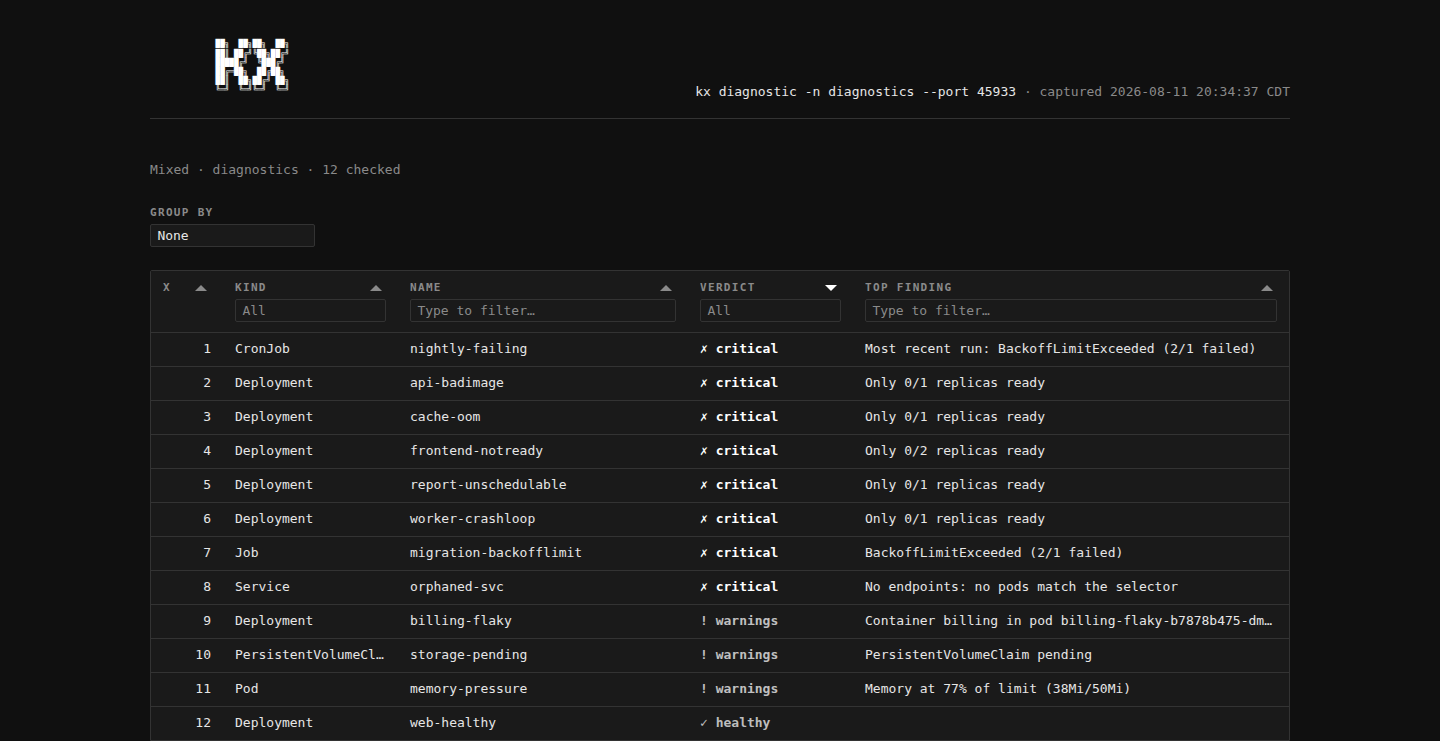
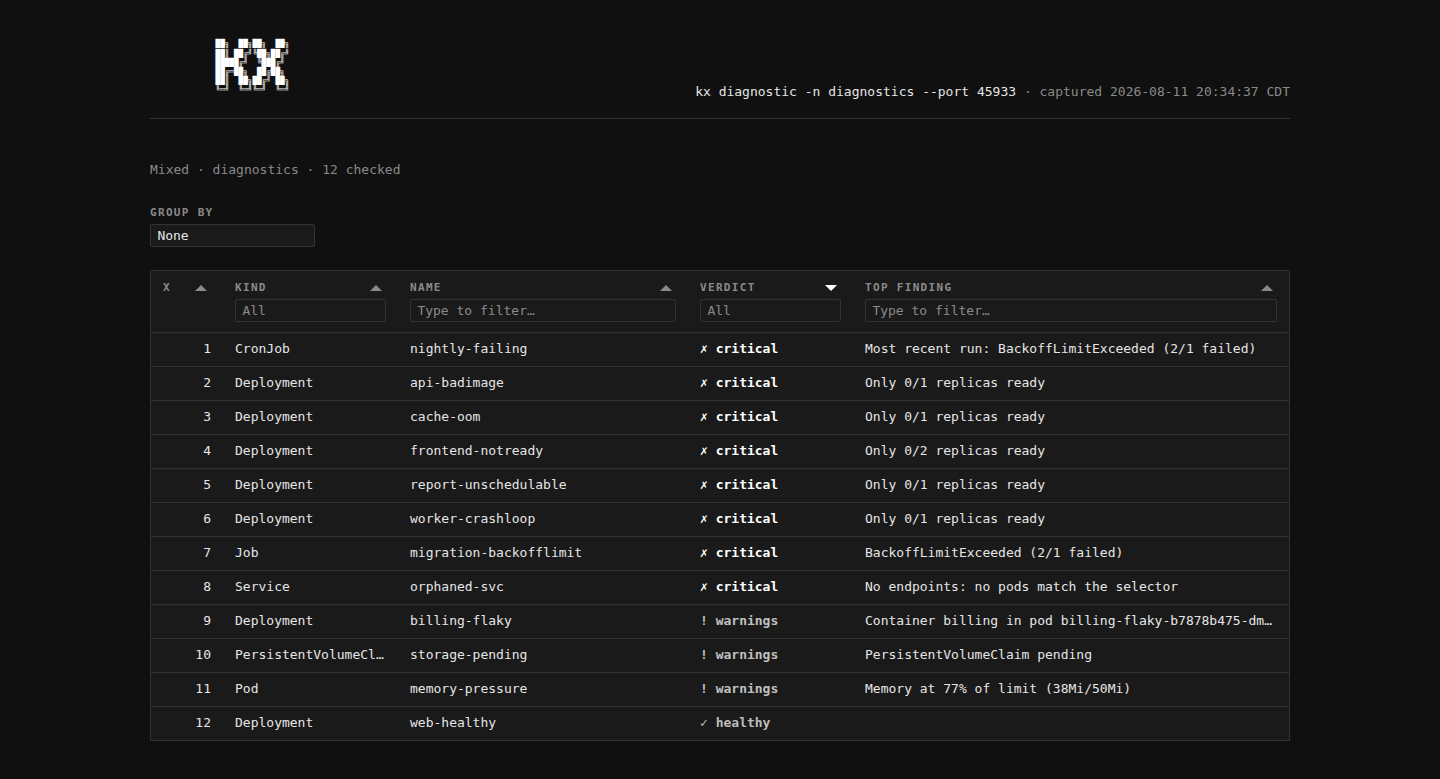
fix(site): match the shots' bottom padding to their top
Clipping to a row boundary left the content flush against the bottom
edge while the top kept the page's own 38px margin, so the shot read as
cropped rather than framed inside its card.

The padding is added after the screenshot rather than by extending the
clip: the rows continue below the cut, so a taller clip shows more grid,
not more space. It is filled with the background sampled from the shot's
own corner, which is the palette's, so it extends the page rather than
matting it in some other colour. The inset is measured per shot instead
of hardcoded, since it is whatever the report's own layout gives it.

--repad applies it to existing shots, so correcting the framing does not
mean re-running thirty screenshots against the cluster. All thirty now
have top and bottom within a pixel of each other.

diff --git a/demo/shoot-reports.py b/demo/shoot-reports.py
@@ -15,7 +15,7 @@ demo/seed.sh), and playwright with chromium. The environment for that is not
 committed — it is a screenshotting tool, not part of building kx:
 
     python3 -m venv /tmp/shotenv
-    /tmp/shotenv/bin/pip install playwright
+    /tmp/shotenv/bin/pip install playwright pillow
     /tmp/shotenv/bin/playwright install chromium
     /tmp/shotenv/bin/python demo/shoot-reports.py
 """
@@ -142,6 +142,40 @@ LAST_ROW_BOTTOM = """
 ROW_MARGIN = 10
 
 
+def pad_bottom(destination: Path) -> None:
+    """Give the shot as much room below its last row as it has above its first.
+
+    Clipping to a row boundary leaves the content flush against the bottom
+    edge while the top keeps the page's own margin, so the image looks cropped
+    rather than framed. The padding is filled with the background sampled from
+    the corner, which is the palette's own, so it extends the page rather than
+    matting it in some other colour.
+    """
+    from PIL import Image
+
+    image = Image.open(destination).convert("RGB")
+    width, height = image.size
+    background = image.getpixel((2, 2))
+
+    # The top inset is however far down the first non-background pixel sits.
+    # Sampling every third column is plenty to find it and much faster than
+    # every one.
+    inset = next(
+        (
+            y
+            for y in range(height)
+            if any(image.getpixel((x, y)) != background for x in range(0, width, 3))
+        ),
+        0,
+    )
+    if inset <= 0:
+        return
+
+    padded = Image.new("RGB", (width, height + inset), background)
+    padded.paste(image, (0, 0))
+    padded.save(destination)
+
+
 def shoot(page, url: str, destination: Path) -> None:
     page.goto(url, wait_until="networkidle")
     # The grids hydrate after load; without settling, a shot can catch the
@@ -163,16 +197,31 @@ def shoot(page, url: str, destination: Path) -> None:
         path=str(destination),
         clip={"x": 0, "y": 0, "width": VIEWPORT["width"], "height": height},
     )
+    pad_bottom(destination)
 
 
 def main() -> int:
     parser = argparse.ArgumentParser(description=__doc__)
     parser.add_argument("--report", choices=sorted(REPORTS), action="append")
     parser.add_argument("--theme", action="append")
+    parser.add_argument(
+        "--repad",
+        action="store_true",
+        help="re-apply the bottom padding to existing shots, without re-shooting",
+    )
     args = parser.parse_args()
 
     reports = args.report or sorted(REPORTS)
     themes = args.theme or palettes()
+
+    if args.repad:
+        for report in reports:
+            for theme in themes:
+                destination = OUTPUT_DIR / f"{report}-html-{theme}.png"
+                if destination.exists():
+                    pad_bottom(destination)
+                    print(f"padded {destination.relative_to(ROOT)}")
+        return 0
 
     try:
         from playwright.sync_api import sync_playwright
